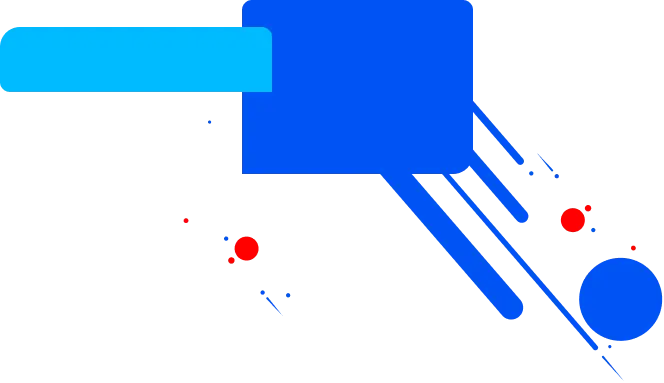
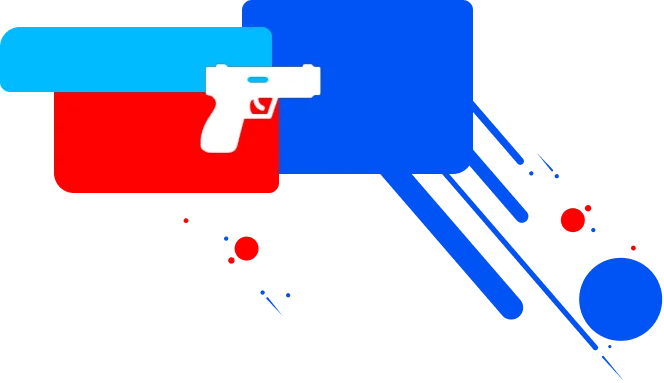
add styles

Changed region(s): [[0.0602, 0.1436, 0.4819, 0.517]]

diff --git a/src/pages/activities/ActivityViewer/index.css b/src/pages/activities/ActivityViewer/index.css
@@ -1,0 +1,117 @@
+.current-activity {
+  background-image: url("../../../img/activities/bg.webp");
+  background-repeat: no-repeat;
+  background-size: 100% auto;
+  padding: 100px 0;
+  display: flex;
+  justify-content: center;
+}
+
+.current-activity__panel {
+  background-color: #fff;
+  position: relative;
+  width: 60vw;
+  padding: 40px 70px 130px;
+  font-family: var(--open-sans);
+  color: var(--medium-blue);
+  border-radius: 0 20px 20px 20px;
+  display: flex;
+  flex-direction: column;
+}
+
+.current-activity__header {
+  font-size: 30px;
+  text-indent: 50px;
+  margin-top: 0;
+  font-weight: 600;
+}
+
+.current-activity__description {
+  display: flex;
+  flex-direction: column;
+  gap: 10px;
+  margin-bottom: 40px;
+}
+
+.current-activity__description p {
+  margin: 0;
+}
+
+.current-activity__date {
+  position: absolute;
+  color: var(--light-blue);
+  font-size: 18px;
+  font-weight: 600;
+  text-indent: 76px;
+  top: 251px;
+}
+
+.current-activity__date:after,
+.current-activity__panel:before {
+  content: "";
+  position: absolute;
+  --width: 350px;
+  --height: calc(var(--width) * 0.577);
+  display: block;
+  width: var(--width);
+  height: var(--height);
+  background-image: url("../../../img/activities/pistol-bg.webp");
+  background-repeat: no-repeat;
+  background-size: contain;
+  top: 8px;
+}
+
+.current-activity__panel:before {
+  --width: 70px;
+  --height: calc(var(--width) * 0.649);
+  background-image: url("../../../img/activities/confetti.webp");
+  top: 42px;
+  right: 86px;
+}
+
+.current-activity__link-send-request {
+  margin-left: auto;
+  display: flex;
+  align-items: center;
+  justify-content: center;
+  text-decoration: none;
+  text-transform: uppercase;
+  background-color: #f00;
+  color: #fff;
+  padding: 10px 30px;
+  border-radius: 10px;
+  transition: background-color 0.2s linear;
+}
+
+.current-activity__link-send-request:hover {
+  background-color: var(--medium-blue);
+}
+
+.current-activity__link-go-back {
+  position: absolute;
+  top: 0;
+  width: 60px;
+  border-radius: 50% 0 0 50%;
+  height: 50px;
+  background-color: #fff;
+  display: flex;
+  align-items: center;
+  left: -59px;
+  transition: background-color 0.2s linear;
+}
+
+.current-activity__link-go-back:hover {
+  background-color: var(--medium-blue);
+}
+
+.current-activity__arrow-ico {
+  margin-left: 8px;
+}
+
+.current-activity__arrow-ico path {
+  fill: #f00;
+}
+
+.current-activity__link-go-back:hover path {
+  fill: #fff;
+}

diff --git a/src/pages/activities/ActivityViewer/index.jsx b/src/pages/activities/ActivityViewer/index.jsx
@@ -8,6 +8,9 @@ const ActivityViewer = () => {
   return (
     <section className="current-activity">
       <div className="current-activity__panel">
+        <Link to="/" className="current-activity__link-go-back">
+          <Arrow className="current-activity__arrow-ico" />
+        </Link>
         <h1 className="current-activity__header">Тренировочный бой юниоров</h1>
         <div className="current-activity__description">
           <p>
@@ -27,9 +30,6 @@ const ActivityViewer = () => {
         <div className="current-activity__date">03.12</div>
         <Link to="/activities" className="current-activity__link-send-request">
           Подать заявку
-        </Link>
-        <Link className="current-activity__link-go-back">
-          <Arrow />
         </Link>
       </div>
     </section>
